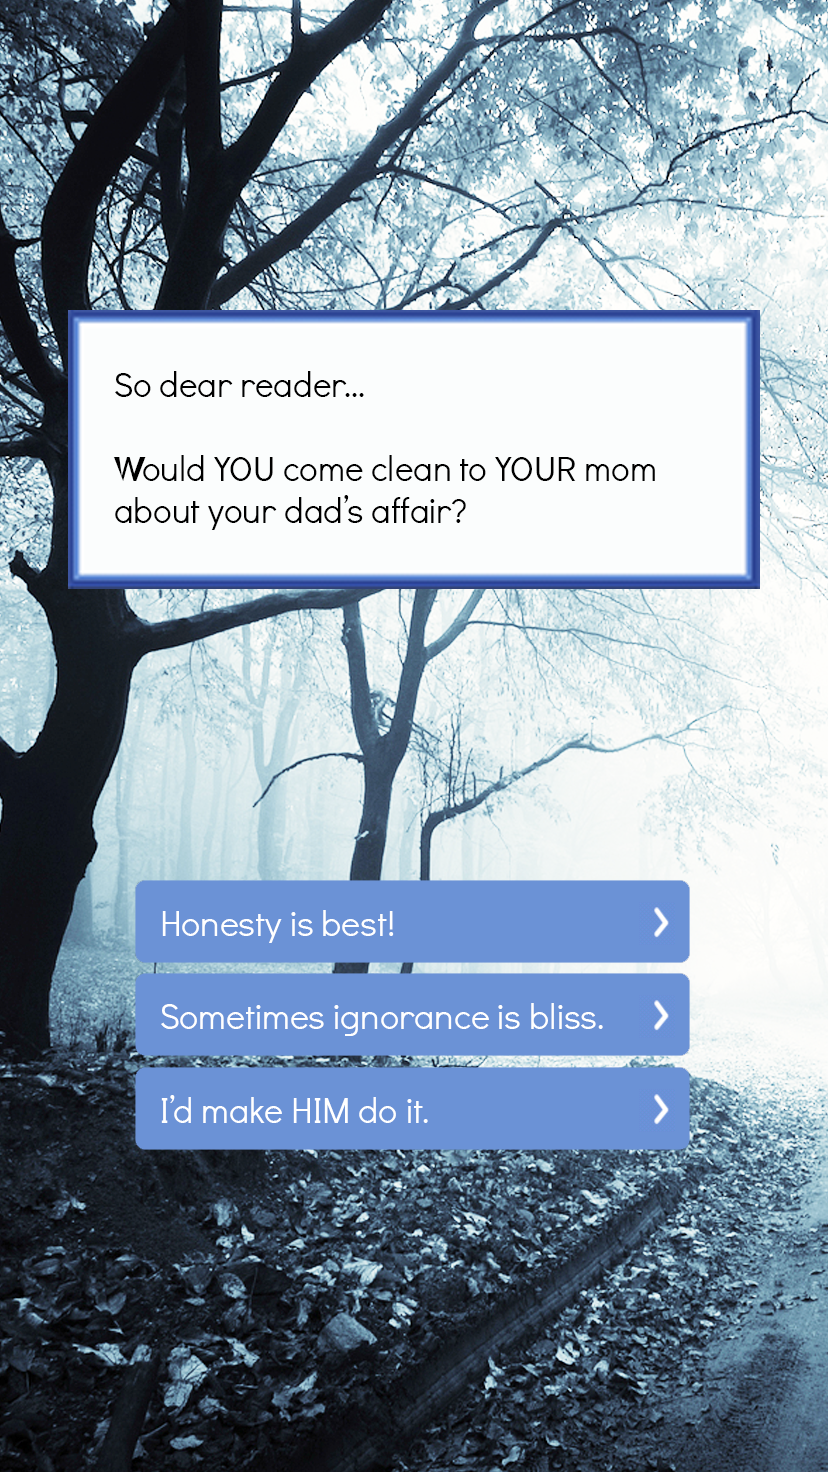
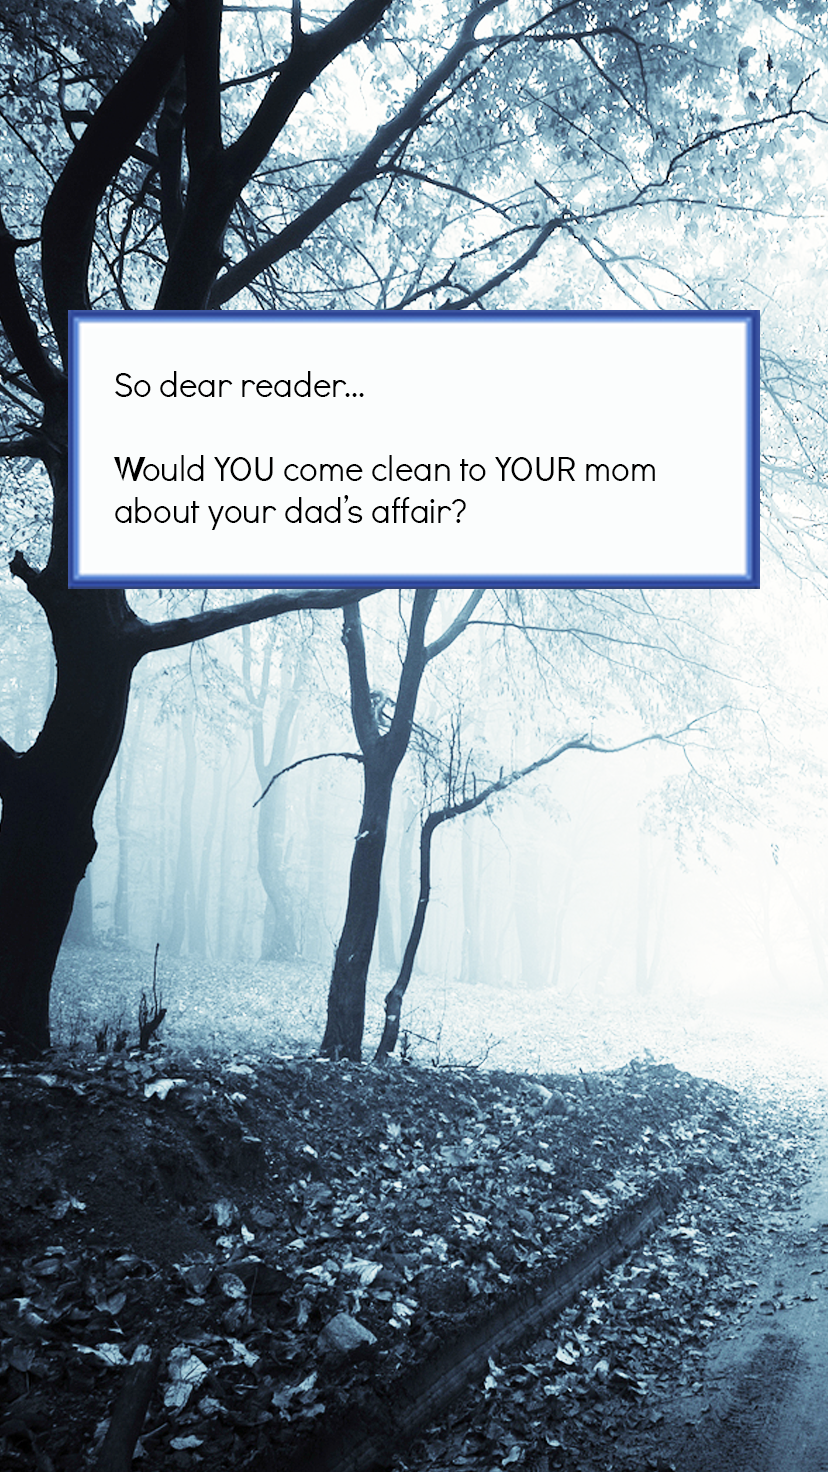
choices now animate

Changed region(s): [[0.151, 0.5938, 0.8454, 0.7812]]

diff --git a/Model/GameModel.swift b/Model/GameModel.swift
@@ -95,6 +95,10 @@ class GameModel{
         feedChoiceFun.mediaName = "Survey"
         feedChoiceFun.date = "Oct 24 2016"
         feedChoiceFun.imageNames = ["feedChoiceFun"]
+        feedChoiceFun.choices = [
+            (answer: "Humans only!", percentage: CGFloat(0.6)),
+            (answer: "I'll try anything once.", percentage: CGFloat(0.4))
+        ]
         
         let feedChoiceSerious = FeedData()
         feedChoiceSerious.mugshotName = "mugshotChristine"
@@ -113,16 +117,16 @@ class GameModel{
         let feedSceneCapture = FeedData()
         feedSceneCapture.mugshotName = "mugshotCass"
         feedSceneCapture.username = "Pink-Haired Cass"
-        feedSceneCapture.mediaName = "Scene Capture from Old Maid Adventures"
+        feedSceneCapture.mediaName = "Screenshot from Old Maid Adventures"
         feedSceneCapture.date = "Oct 24 2016"
-        feedSceneCapture.imageNames = ["feedSceneCapture", "feedSceneCapture"]
+        feedSceneCapture.imageNames = ["feedSceneCapture"]
         
         let feedShort = FeedData()
         feedShort.mugshotName = "mugshotColonelSanders"
         feedShort.username = "Colonel Sanders"
-        feedShort.mediaName = "Short"
+        feedShort.mediaName = "Capture from The Colonel's Shorts"
         feedShort.date = "Oct 24 2016"
-        feedShort.imageNames = ["feedShort0a", "feedShort0b", "feedShort1a", "feedShort1b", "feedShort2a", "feedShort2b", "feedShort3a", "feedShort3b", "feedShort4a", "feedShort4b"]
+        feedShort.imageNames = ["feedShort0a", "feedShort0b", "feedShort0a", "feedShort0b", "feedShort1a", "feedShort1b", "feedShort1a", "feedShort1b", "feedShort2a", "feedShort2b", "feedShort2a", "feedShort2b", "feedShort3a", "feedShort3b", "feedShort3a", "feedShort3b", "feedShort4a", "feedShort4b", "feedShort4a", "feedShort4b"]
         
         let feedGucci = FeedData()
         feedGucci.mugshotName = "mugshotAngela"

diff --git a/Controllers/StoryController.swift b/Controllers/StoryController.swift
@@ -6,10 +6,11 @@ class StoryController: UIViewController {
     
     @IBOutlet var imageView: UIImageView!
     @IBOutlet var exitButton: UIButton!
+    @IBOutlet var choice: Choice!
+    
     let frames = [
         "story1",
         "story2",
-        "story3",
         "story4",
         "story5"
     ]
@@ -41,7 +42,8 @@ class StoryController: UIViewController {
         imageView.image = UIImage(named: frames[index])
     }
     func advanceFrame(){
-        if frameIndex == 4 && !didShowComments {
+        
+        if frameIndex == 3 && !didShowComments {
             openComments()
             didShowComments = true
         } else if frameIndex == frames.count - 1 {
@@ -50,6 +52,24 @@ class StoryController: UIViewController {
         } else {
             goToFrame(index: frameIndex + 1)
         }
+        
+        if frameIndex == 1 {
+            choice.isHidden = false
+            _ = choice.addChoice(label: "Confront him", percent: 0.25)
+            _ = choice.addChoice(label: "Confront the woman", percent: 0.15)
+            _ = choice.addChoice(label: "Flee the scene", percent: 0.6)
+        } else if frameIndex == 2 {
+            choice.isHidden = false
+            choice.clearChoices()
+            _ = choice.addChoice(label: "Honesty is best!", percent: 0.2)
+            _ = choice.addChoice(label: "Sometimes ignorances is bliss.", percent: 0.1)
+            _ = choice.addChoice(label: "Make HIM do it.", percent: 0.7)
+        } else {
+            choice.isHidden = true
+        }
+    }
+    func hideChoice(){
+        choice.isHidden = true
     }
     
     //MARK: STORY MENUS
@@ -67,6 +87,7 @@ class StoryController: UIViewController {
     func closeStoryMenu(){
         storyMenu.isHidden = true
     }
+    
     
     //MARK: END OF CHAPTER
     func openEndOfChapter(){

diff --git a/Views/ChoiceButton.swift b/Views/ChoiceButton.swift
@@ -1,0 +1,46 @@
+import UIKit
+
+class ChoiceButton:UIViewFromNib{
+    
+    //MARK: VARIABLES    
+    @IBOutlet var bgImageView: UIImageView!
+    @IBOutlet var fillImageView: UIImageView!
+    @IBOutlet var darkFillImageView: UIImageView!
+    @IBOutlet var fillWidth: NSLayoutConstraint!
+    @IBOutlet var darkFillWidth: NSLayoutConstraint!
+    @IBOutlet var label: UILabel!
+    var onTap:VoidClosure?
+    override public var intrinsicContentSize:CGSize{
+        get {
+            return CGSize(width: 300.0, height: 40.0)
+        }
+    }
+    
+    //MARK: INITIALIZATION
+    override func getNibName() -> String{
+        return "ChoiceButtonLayout"
+    }
+    override func customSetup() {
+        fillWidth.constant = 0
+        darkFillWidth.constant = 0
+    }
+    func setLabelTo(_ text:String){
+        label.text = text
+    }
+    func setOnTap(onTap:@escaping VoidClosure){
+        self.onTap = onTap
+        enableTap(target: self, action: #selector(tap))
+    }
+    func tap(){ //should be private but need to expose selector
+        if let onTap = onTap { onTap() }
+    }
+
+    //MARK: FUNCTIONS
+    func fillTo(isSelected:Bool, percentage:CGFloat, seconds:Double){
+        let imageView = isSelected ? fillImageView : darkFillImageView
+        UIView.animate(withDuration: seconds, animations: {[weak self] in
+            imageView!.frame = CGRect(x: imageView!.frame.origin.x, y: imageView!.frame.origin.y, width: percentage * self!.intrinsicContentSize.width, height: imageView!.frame.height)
+        })
+    }
+    
+}

diff --git a/Views/Choice.swift b/Views/Choice.swift
@@ -1,0 +1,46 @@
+import UIKit
+
+class Choice:UIViewFromNib {
+    
+    //MARK: VARIABLES
+    @IBOutlet var stackView: UIStackView!
+    @IBOutlet var label: UILabel!
+    var choices = [(button: ChoiceButton, percent: CGFloat)]()
+    
+    //MARK: INITIALIZATION
+    override func getNibName() -> String{
+        return "ChoiceLayout"
+    }
+    override func customSetup() {
+        label.isHidden = true
+    }
+    
+    //MARK: FUNCTIONS
+    func addChoice(label:String, percent:CGFloat) -> ChoiceButton {
+        let choiceButton = ChoiceButton()
+        choiceButton.setLabelTo(label)
+        choiceButton.setOnTap {[weak self] in
+            self!.fill(choiceButton: choiceButton)
+        }
+        stackView.addArrangedSubview(choiceButton)
+        choices += [(button: choiceButton, percent: percent)]
+        return choiceButton
+    }
+    private func fill(choiceButton:ChoiceButton){
+        for choice in choices {
+            let button = choice.button
+            button.fillTo(isSelected: button == choiceButton, percentage: choice.percent, seconds: 1)
+            if button == choiceButton {
+                label.text = "\(Int(choice.percent*100))% of other readers chose the same!"
+                label.isHidden = false
+            }
+        }
+    }
+    func clearChoices(){
+        for choice in choices {
+            choice.button.isHidden = true
+            stackView.removeArrangedSubview(choice.button)
+        }
+        choices = [(button: ChoiceButton, percent: CGFloat)]()
+    }
+}

diff --git a/Views/FeedItem.swift b/Views/FeedItem.swift
@@ -11,6 +11,7 @@ class FeedItem:UIViewFromNib{
     @IBOutlet var dateLabel: UILabel!
     @IBOutlet var imageView: UIImageView!
     @IBOutlet var youtubeView: YTPlayerView!
+    @IBOutlet var choice: Choice!
     @IBOutlet var playButton: UIButton!
     @IBOutlet var actionBar: UIView!
     @IBOutlet var commentButton: UIButton!
@@ -66,5 +67,12 @@ class FeedItem:UIViewFromNib{
         if let feedImage = UIImage(named: imageNames[frameIndex]){
             imageView.image = feedImage
         }
+    }
+    func showChoices(_ choices:[(answer:String, percentage:CGFloat)]){
+        var button:ChoiceButton!
+        for aChoice in choices {
+            button = choice.addChoice(label: aChoice.answer, percent: aChoice.percentage)
+        }
+        enableTap(target: button, action: #selector(ChoiceButton.tap)) //hack
     }
 }

diff --git a/Controllers/FeedController.swift b/Controllers/FeedController.swift
@@ -49,6 +49,10 @@ class FeedController:UIViewController{
             view.layoutIfNeeded()
             feedItem.showVideo(videoId: videoId)
         }
+        
+        if let choices = feedData.choices {
+            feedItem.showChoices(choices)
+        }
 
         if feedData.imageNames.count > 1 {
             feedItem.enableTap(target: feedItem, action: #selector(FeedItem.nextFrame))

diff --git a/Model/FeedData.swift b/Model/FeedData.swift
@@ -6,6 +6,8 @@ class FeedData {
     var mediaName:String?
     var date:String?
     var imageNames:[String]!
+    var question:String?
+    var choices:[(answer:String, percentage:CGFloat)]?
     var videoId:String?
     var deepLink:DeepLink?
     var showHeader = true
